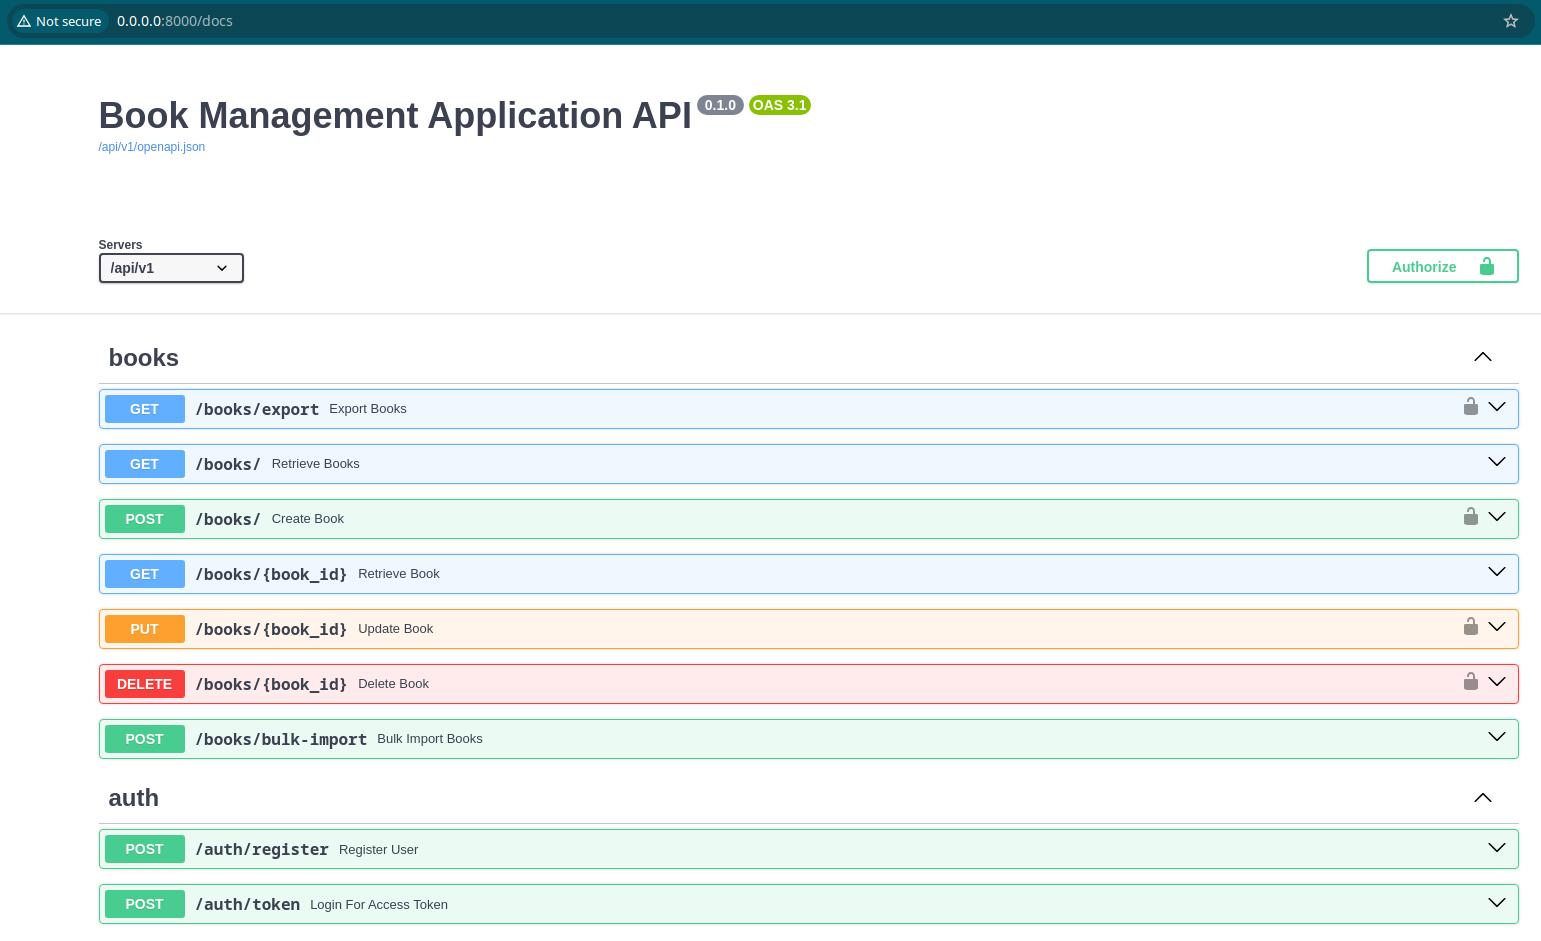
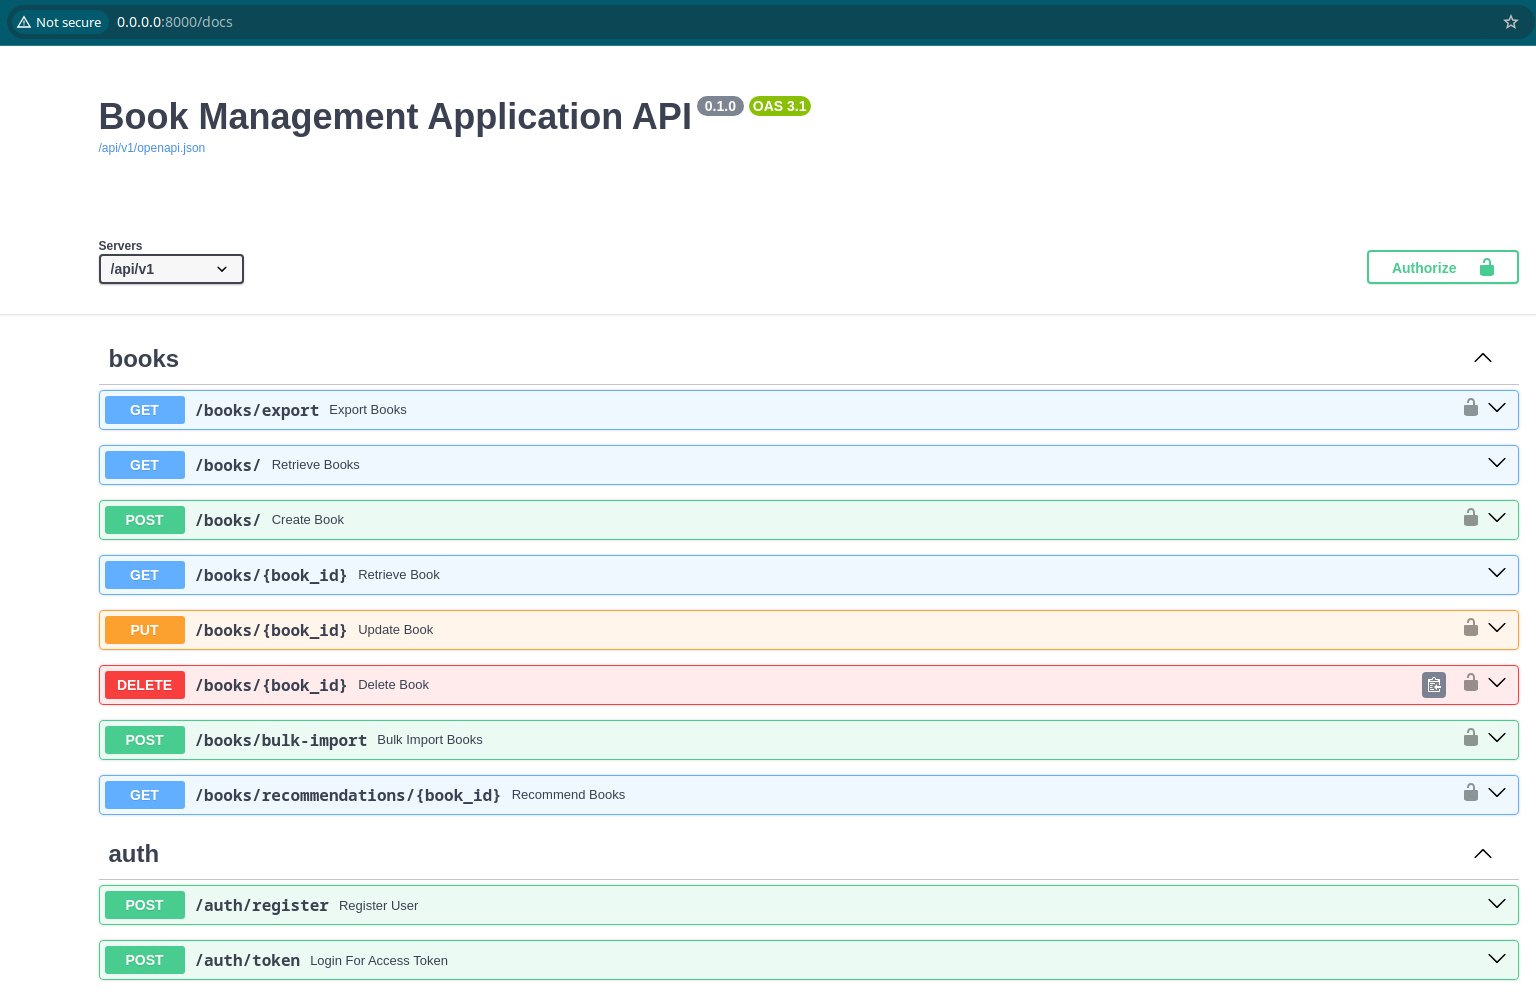
docs: Update README to include migration instructions and enhance test command details

diff --git a/README.md b/README.md
@@ -9,6 +9,7 @@ A FastAPI-based REST API for managing books and authors with authentication, pag
 - [Task](#task)
 - [Installation](#installation)
 - [Run with docker](#run-with-docker)
+- [Run migrations](#run-migrations)
 - [Run tests](#run-tests)
 - [Getting access](#getting-access)
 - [Tech Stack](#tech-stack)
@@ -55,7 +56,7 @@ docker compose exec app bash -c "PYTHONPATH=\$PYTHONPATH:src alembic upgrade hea
 Add path to `.env` files for test configuration
 
 ```bash
-pytest tests/
+PYTHONPATH=$PYTHONPATH:src pytest --asyncio-mode=auto -sv
 ```
 (At the moment, we are reworking the tests in order to correctly use the asynchronous test postgress database)
 
@@ -86,6 +87,7 @@ pytest tests/
 - PostgreSQL database with SQLAlchemy ORM
 - Docker containerization
 - Comprehensive test coverage
+- Recomendation system (based on TF-IDF vectorization algorithm)
 
 
 ### Documentation
@@ -108,8 +110,6 @@ Swager docs image:
 <details style="border: 1px solid #ccc; padding: 10px; margin-bottom: 10px">
 <summary style="font-size: 1.17em; font-weight: bold; ">Future work</summary>
 
-- Add more tests, refactor it
-- Add recomendation system
 - Deploy to AWS
 
 </details>
